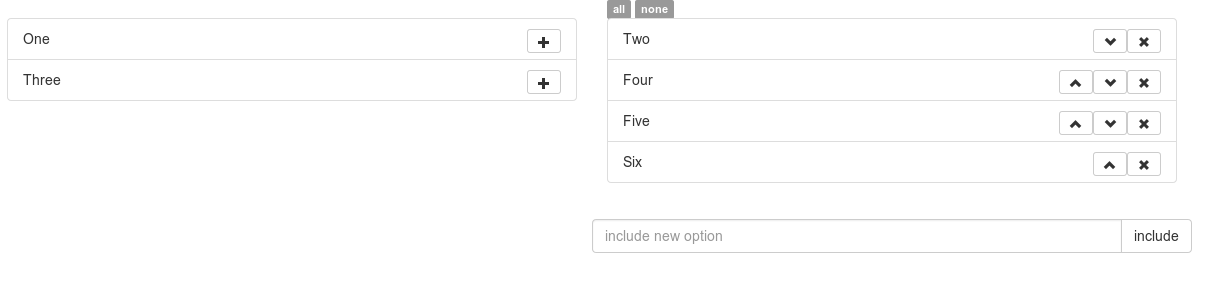
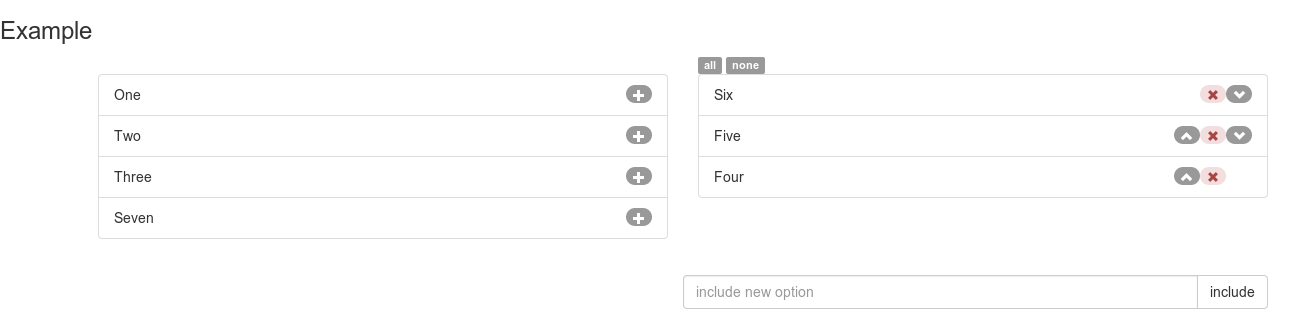
o Actualizacion de la captura de pantalla o Cambio de funcionamiento para respetar el orden al recuperar los datos o Actualizado ejemplo a nuevo comportamiento

diff --git a/js/multiSelectOrder.js b/js/multiSelectOrder.js
@@ -47,24 +47,23 @@
         this.$leftTmpl = $('<li/>', {'class': "multiSelectOrder-leftLi " + (options.bootstrap ? "list-group-item" : "")}).append(
                 $("<span>", {'class': "buttonsWrapper " + (options.bootstrap ? "pull-right" : "")}).append(
                 $("<a/>", {
-                    'href': '#',
+                    'href': 'javascript:void(0)',
                     'class': "multiSelectOrder-upBtn " + (options.bootstrap ? "badge " : "")}).html(
                 (options.bootstrap ? $("<i>", {'class': 'glyphicon glyphicon-plus'}) : "add")
                 )));
 
         this.$rightTmpl = $('<li/>', {'class': "multiSelectOrder-rightLi " + (options.bootstrap ? "list-group-item" : "")}).append(
-                
                 $("<span>", {'class': 'buttonsWrapper pull-right'}).append(
                 $("<a/>", {
-                    'href': '#',
+                    'href': 'javascript:void(0)',
                     'class': "multiSelectOrder-upBtn " + (options.bootstrap ? "badge" : "")}).html(
                 (options.bootstrap ? $('<i/>', {'class': 'glyphicon glyphicon-chevron-up'}) : "up"))).append(
                 $("<a/>", {
                     'class': "multiSelectOrder-deselectorBtn " + (options.bootstrap ? "badge alert-danger" : ""),
-                    'href': '#'}).html(
+                    'href': 'javascript:void(0)'}).html(
                 (options.bootstrap ? $('<i/>', {'class': 'glyphicon glyphicon-remove'}) : "X"))).append(
                 $("<a/>", {
-                    'href': '#',
+                    'href': 'javascript:void(0)',
                     'class': "multiSelectOrder-downBtn " + (options.bootstrap ? "badge" : "")}).html(
                 (options.bootstrap ? $('<i/>', {'class': 'glyphicon glyphicon-chevron-down'}) : "down")))
                 );
@@ -73,18 +72,32 @@
     MultiSelectOrder.prototype = {
         constructor: MultiSelectOrder,
         init: function() {
-            var that = this,
-                    element = this.$element;
-
+            var that = this, element = this.$element;
             element.css({position: 'absolute', left: '-9999px'});
+
             element.find("option").each(function() {
                 var opt = $(this);
-                if (opt.prop('selected')) {
-                    that.select(opt);
+                if (opt.attr("data-multiSelectOrder-extra")) {
+                    console.log("extra option")
+                    console.log(this)
+                    that.addExtraOption(this, true, false);
                 } else {
+//                if (opt.prop('selected')) {
+//                    that.select(opt);
+//                } else {
                     that.deselect(opt);
+//                }                    
                 }
+
             });
+            
+            if (element.attr("data-multiSelectOrder-values")){
+                var values = element.attr("data-multiSelectOrder-values").split(",");
+                values.forEach(function(entry){
+                    var opt = element.find("option[value='" +  entry + "']");
+                    that.select(opt);
+                });
+            }
 
             that.$leftContainer.append(that.$leftUl);
             that.$rightContainer.append(that.$rightUl);
@@ -101,12 +114,12 @@ visibility: hidden\
                     $("<div/>", {'class': "multiSelectAll-header" + (that.options.bootstrap ? ' row' : '')}).append(
                     $("<div/>", {'class': "" + (that.options.bootstrap ? " col-md-6 col-md-offset-6" : "")}).append(
                     $("<span/>", {}).append(
-                    $("<a>", {'href': '#', 'class': 'multiSelectOrder-all' + (that.options.bootstrap ? " label label-default" : "")}).html(
+                    $("<a>", {'href': 'javascript:void(0)', 'class': 'multiSelectOrder-all' + (that.options.bootstrap ? " label label-default" : "")}).html(
                     that.options.i18n.selectAll
                     ))
                     ).append(" ").append(
                     $("<span/>", {}).append(
-                    $("<a>", {'href': '#', 'class': 'multiSelectOrder-none' + (that.options.bootstrap ? " label label-default" : "")}).html(
+                    $("<a>", {'href': 'javascript:void(0)', 'class': 'multiSelectOrder-none' + (that.options.bootstrap ? " label label-default" : "")}).html(
                     that.options.i18n.selectNone
                     )
                     )
@@ -132,13 +145,9 @@ visibility: hidden\
                         that.addExtraOption();
                     }
                 });
-                that.$inputExtraBtn.on("click", function(){
+                that.$inputExtraBtn.on("click", function() {
                     that.addExtraOption();
                 });
-                
-                for (var i = 0; i < that.options.extraOptions.length; i++) {
-                    that.addExtraOption(that.options.extraOptions[i]);
-                }
             }
             that.$container.append(
                     $("<div>", {'class': 'row'}).append(
@@ -229,18 +238,38 @@ visibility: hidden\
             });
 
         },
-        'addExtraOption': function(optValue) {
+        'addExtraOption': function(paramOpt) {
             var that = this,
                     element = this.$element;
-            var optValue = optValue?optValue:that.$inputExtra.val();
-            
-            if (that.options.extraPattern) {
-                if (!that.options.extraPattern.test(optValue)) {
-                    that.$messageContainer.html(optValue + ' ' + that.options.i18n.invalid);
-                    return;
-                }
+            var optValue 
+            if ($(paramOpt).attr("value")) {
+                optValue = $(paramOpt).attr("value")
+            } else {
+                optValue = that.$inputExtra.val()
             }
             
+            var opt = paramOpt 
+                ? paramOpt
+                : $("<option>", {value: optValue}).html(optValue);
+
+            if (optValue) {
+                if (element.attr("data-multiSelectOrder-pattern")) {
+                    var p = new RegExp(element.attr("data-multiSelectOrder-pattern"), "i");
+                    if (!p.test()) {
+                        that.$messageContainer.html(optValue + ' ' + that.options.i18n.invalid);
+                        return;
+                    }
+                } else {
+                    if (that.options.extraPattern) {
+                        var p = new RegExp(that.options.extraPattern, "i");
+                        if (!p.test(optValue)) {
+                            that.$messageContainer.html(optValue + ' ' + that.options.i18n.invalid);
+                            return;
+                        }
+                    }
+                }
+            }
+
             if (element.find("option[value='" + optValue + "']").length === 0) {
                 var opt = $('<option/>', {
                     'value': optValue
@@ -265,7 +294,7 @@ visibility: hidden\
 
             that.$leftUl.find("li#" + that.idFromValue(opt.val())).remove();
             opt.prop('selected', true);
-
+            
             element.find("option[value='" + opt.val() + "']").remove();
             element.append(opt);
 
@@ -327,7 +356,6 @@ visibility: hidden\
         extraButton: false,
         extraPattern: false,
         extraPlaceholder: '',
-        extraOptions: [],
         i18n: {
             selectAll: 'selectAll',
             selectNone: 'selectNone',

diff --git a/index.html b/index.html
@@ -8,15 +8,15 @@
             <h3>Example</h3>
         </div>
         <div class="container">
-
             <div class="row">
-                <select id="target" name="patata" multiple>
+                <select id="target" name="patata" multiple data-multiSelectOrder-values="26,25,24">
                     <option value="21">One</option>
-                    <option value="22" selected>Two</option>
+                    <option value="22">Two</option>
                     <option value="23">Three</option>
-                    <option value="24" selected>Four</option>
-                    <option value="25" selected>Five</option>
-                    <option value="26" selected>Six</option>
+                    <option value="24">Four</option>
+                    <option value="25">Five</option>
+                    <option value="26">Six</option>
+                    <option value="27">Seven</option>
                 </select>
             </div>
         </div>
@@ -29,7 +29,7 @@
                 bootstrap: true, 
                 extra: true, 
                 extraButton: "include", 
-                extraPattern: new RegExp("\\b\\d+\\b", "i"),
+                extraPattern: "\\b\\d+\\b",
                 extraPlaceholder: 'include new option',
                 i18n: {
                     selectAll: 'all',
